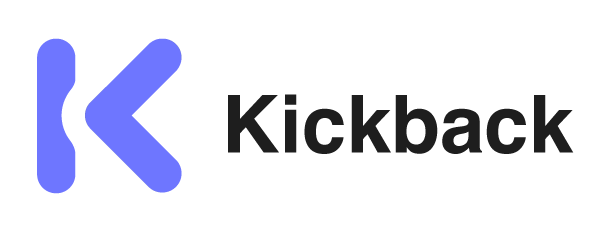
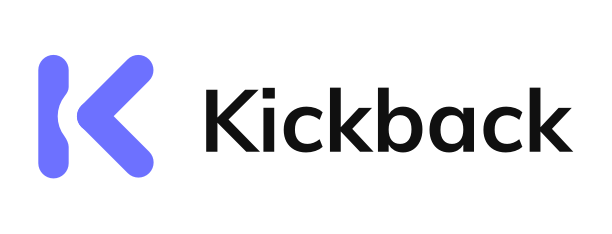
Add new fonts

Changed region(s): [[0.3105, 0.359, 0.9314, 0.6581], [0.0621, 0.1496, 0.3105, 0.8376]]

diff --git a/index.html b/index.html
@@ -33,7 +33,7 @@
      <!--Let browser know website is optimized for mobile-->
      <meta property="og:title" content="Kickback">
      <meta property="og:description" content="Event no shows? No problem. Kickback reduces no shows by asking registrants to put some skin in the game.">
-     <meta property="og:image" content="https://kickback.events/images/kickback.png">
+     <meta property="og:image" content="https://kickback.events/images/card.png">
      <meta property="og:url" content="https://kickback.events">
      <meta name="twitter:card" content="summary_large_image">
      <meta name="viewport" content="width=device-width, initial-scale=1.0"/>
